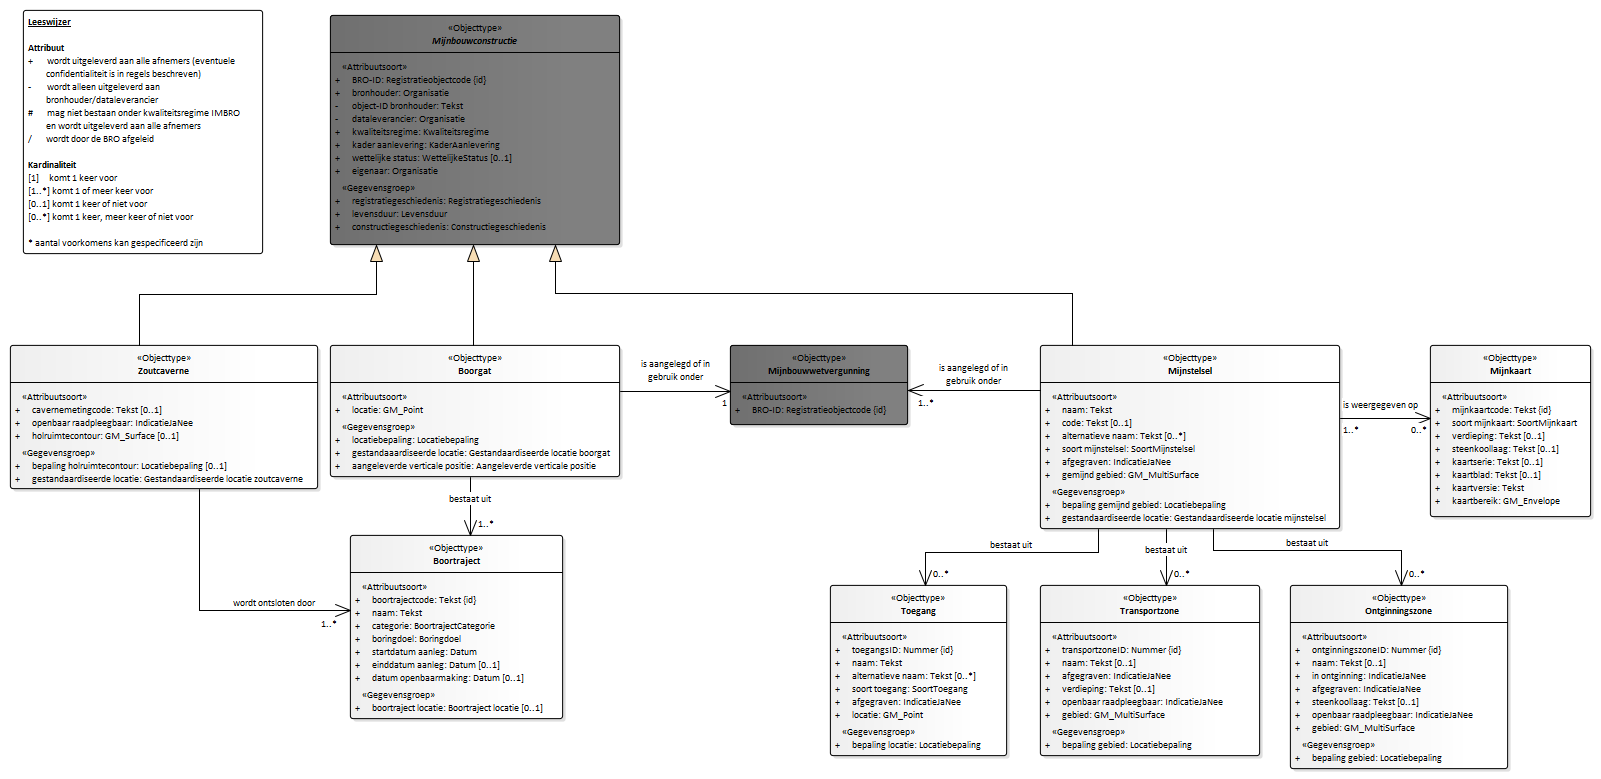
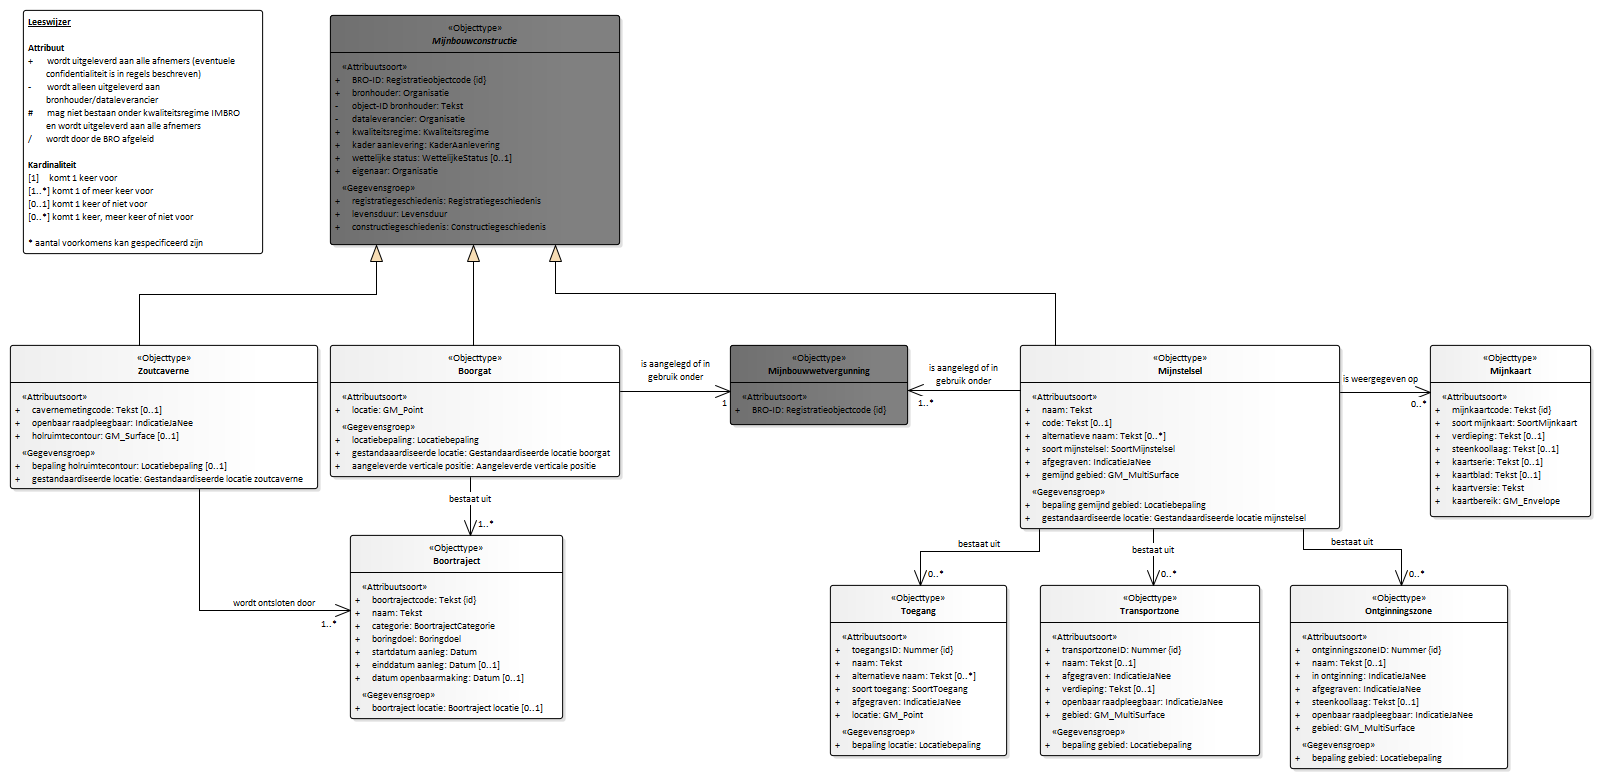
Conceptualmodel-MijnbouwconstructiesEPC-conceptueel-0.1versie27juli2020-1-20210315-20210519-143508

diff --git a/data/EPC-cat.msword.html b/data/EPC-cat.msword.html
@@ -15,7 +15,7 @@
    <body>
       <p>Conceptual model/Mijnbouwconstructies (EPC) - conceptueel/20210315</p>
       <p>Imvertor: 1.64.1</p>
-      <p>Model release: Conceptualmodel-MijnbouwconstructiesEPC-conceptueel-0.1versie27juli2020-1-20210315-20210519-073439</p>
+      <p>Model release: Conceptualmodel-MijnbouwconstructiesEPC-conceptueel-0.1versie27juli2020-1-20210315-20210519-143508</p>
       <hr>
       <section>
          <h1>Artikel 1 Definitie van registratieobject, entiteiten en attributen</h1>
@@ -62,7 +62,7 @@
          <section>
             <h2>Het domeinmodel</h2>
             <section id="">
-               <div class="imageinfo overview"><img src="Images/EAID_017CB205_53B6_4659_8664_F773CFA9FA2C.png" usemap="#imagemap-EAID_017CB205_53B6_4659_8664_F773CFA9FA2C" alt="Diagram "><map name="imagemap-EAID_017CB205_53B6_4659_8664_F773CFA9FA2C"><area shape="rect" alt="Mijnbouwwetvergunning" coords="730,345,908,425" href="#graph_EAID_27B442E5_A032_4487_8D18_F4E249D79776"><area shape="rect" alt="Zoutcaverne" coords="10,345,318,489" href="#graph_EAID_B71159A1_F213_4de2_AED5_550473F15950"><area shape="rect" alt="Mijnkaart" coords="1430,345,1591,517" href="#graph_EAID_1A8DB415_AEF6_4f69_8E8C_0187A61B4D1B"><area shape="rect" alt="Ontginningszone" coords="1290,585,1508,769" href="#graph_EAID_B1D55B65_6D27_4eb4_86EC_32DE6BA11322"><area shape="rect" alt="Transportzone" coords="1040,585,1260,756" href="#graph_EAID_828E18BC_B644_41e8_BF25_CBDE10E9249E"><area shape="rect" alt="Toegang" coords="830,585,1007,756" href="#graph_EAID_35D7E222_DC56_4b0e_B219_FCFEF3AE6D86"><area shape="rect" alt="Mijnstelsel" coords="1040,345,1340,529" href="#graph_EAID_CACC8EE7_6654_4fe8_8333_101AC6BA294D"><area shape="rect" alt="Boorgat" coords="330,345,620,477" href="#graph_EAID_78FEC25A_E260_4420_9D1D_66F309EA2C60"><area shape="rect" alt="Boortraject" coords="350,535,563,719" href="#graph_EAID_4E52826A_2252_4994_8AD0_986AD45E18C9"><area shape="rect" alt="Mijnbouwconstructie" coords="330,15,620,245" href="#graph_EAID_69DE8D60_7E06_4b57_94CD_8338348EDAE5"></map><p><b>Mijnbouwconstructies (EPC) -  overzicht</b></p>
+               <div class="imageinfo overview"><img src="Images/EAID_017CB205_53B6_4659_8664_F773CFA9FA2C.png" usemap="#imagemap-EAID_017CB205_53B6_4659_8664_F773CFA9FA2C" alt="Diagram "><map name="imagemap-EAID_017CB205_53B6_4659_8664_F773CFA9FA2C"><area shape="rect" alt="Mijnbouwwetvergunning" coords="730,345,908,425" href="#graph_EAID_27B442E5_A032_4487_8D18_F4E249D79776"><area shape="rect" alt="Zoutcaverne" coords="10,345,318,489" href="#graph_EAID_B71159A1_F213_4de2_AED5_550473F15950"><area shape="rect" alt="Mijnkaart" coords="1430,345,1591,517" href="#graph_EAID_1A8DB415_AEF6_4f69_8E8C_0187A61B4D1B"><area shape="rect" alt="Ontginningszone" coords="1290,585,1508,769" href="#graph_EAID_B1D55B65_6D27_4eb4_86EC_32DE6BA11322"><area shape="rect" alt="Transportzone" coords="1040,585,1260,756" href="#graph_EAID_828E18BC_B644_41e8_BF25_CBDE10E9249E"><area shape="rect" alt="Toegang" coords="830,585,1007,756" href="#graph_EAID_35D7E222_DC56_4b0e_B219_FCFEF3AE6D86"><area shape="rect" alt="Mijnstelsel" coords="1020,345,1340,529" href="#graph_EAID_CACC8EE7_6654_4fe8_8333_101AC6BA294D"><area shape="rect" alt="Boorgat" coords="330,345,620,477" href="#graph_EAID_78FEC25A_E260_4420_9D1D_66F309EA2C60"><area shape="rect" alt="Boortraject" coords="350,535,563,719" href="#graph_EAID_4E52826A_2252_4994_8AD0_986AD45E18C9"><area shape="rect" alt="Mijnbouwconstructie" coords="330,15,620,245" href="#graph_EAID_69DE8D60_7E06_4b57_94CD_8338348EDAE5"></map><p><b>Mijnbouwconstructies (EPC) -  overzicht</b></p>
                </div>
             </section>
          </section>
@@ -6853,13 +6853,12 @@
                         </td>
                   </tr>
                   <tr>
-                     <td>bestaanMijnstelselVastgesteld</td>
+                     <td>aanlegMijnstelselGestart</td>
                      <td>✔</td>
                      <td>✔</td>
                      <td>
                         
-                        <p>Het bestaan van een mijnstelsel is vastgesteld. Dit betreft het ontdekken van een
-                           reeds bestaand mijnstelsel, of, bij uitzondering, de aanleg van een nieuw mijnstelsel.</p>
+                        <p>Een nieuw mijnstelsel wordt aangelegd.</p>
                         </td>
                   </tr>
                   <tr>

diff --git a/data/EPC-cat.respec.html b/data/EPC-cat.respec.html
@@ -40,7 +40,7 @@
       </section>
    <section id="">
       <h2>Het domeinmodel   </h2>
-      <div class="imageinfo overview"><img src="data/Images/EAID_017CB205_53B6_4659_8664_F773CFA9FA2C.png" usemap="#imagemap-EAID_017CB205_53B6_4659_8664_F773CFA9FA2C" alt="Diagram "><map name="imagemap-EAID_017CB205_53B6_4659_8664_F773CFA9FA2C"><area shape="rect" alt="Mijnbouwwetvergunning" coords="730,345,908,425" href="#graph_EAID_27B442E5_A032_4487_8D18_F4E249D79776"><area shape="rect" alt="Zoutcaverne" coords="10,345,318,489" href="#graph_EAID_B71159A1_F213_4de2_AED5_550473F15950"><area shape="rect" alt="Mijnkaart" coords="1430,345,1591,517" href="#graph_EAID_1A8DB415_AEF6_4f69_8E8C_0187A61B4D1B"><area shape="rect" alt="Ontginningszone" coords="1290,585,1508,769" href="#graph_EAID_B1D55B65_6D27_4eb4_86EC_32DE6BA11322"><area shape="rect" alt="Transportzone" coords="1040,585,1260,756" href="#graph_EAID_828E18BC_B644_41e8_BF25_CBDE10E9249E"><area shape="rect" alt="Toegang" coords="830,585,1007,756" href="#graph_EAID_35D7E222_DC56_4b0e_B219_FCFEF3AE6D86"><area shape="rect" alt="Mijnstelsel" coords="1040,345,1340,529" href="#graph_EAID_CACC8EE7_6654_4fe8_8333_101AC6BA294D"><area shape="rect" alt="Boorgat" coords="330,345,620,477" href="#graph_EAID_78FEC25A_E260_4420_9D1D_66F309EA2C60"><area shape="rect" alt="Boortraject" coords="350,535,563,719" href="#graph_EAID_4E52826A_2252_4994_8AD0_986AD45E18C9"><area shape="rect" alt="Mijnbouwconstructie" coords="330,15,620,245" href="#graph_EAID_69DE8D60_7E06_4b57_94CD_8338348EDAE5"></map><p><b>Mijnbouwconstructies (EPC) -  overzicht</b></p>
+      <div class="imageinfo overview"><img src="data/Images/EAID_017CB205_53B6_4659_8664_F773CFA9FA2C.png" usemap="#imagemap-EAID_017CB205_53B6_4659_8664_F773CFA9FA2C" alt="Diagram "><map name="imagemap-EAID_017CB205_53B6_4659_8664_F773CFA9FA2C"><area shape="rect" alt="Mijnbouwwetvergunning" coords="730,345,908,425" href="#graph_EAID_27B442E5_A032_4487_8D18_F4E249D79776"><area shape="rect" alt="Zoutcaverne" coords="10,345,318,489" href="#graph_EAID_B71159A1_F213_4de2_AED5_550473F15950"><area shape="rect" alt="Mijnkaart" coords="1430,345,1591,517" href="#graph_EAID_1A8DB415_AEF6_4f69_8E8C_0187A61B4D1B"><area shape="rect" alt="Ontginningszone" coords="1290,585,1508,769" href="#graph_EAID_B1D55B65_6D27_4eb4_86EC_32DE6BA11322"><area shape="rect" alt="Transportzone" coords="1040,585,1260,756" href="#graph_EAID_828E18BC_B644_41e8_BF25_CBDE10E9249E"><area shape="rect" alt="Toegang" coords="830,585,1007,756" href="#graph_EAID_35D7E222_DC56_4b0e_B219_FCFEF3AE6D86"><area shape="rect" alt="Mijnstelsel" coords="1020,345,1340,529" href="#graph_EAID_CACC8EE7_6654_4fe8_8333_101AC6BA294D"><area shape="rect" alt="Boorgat" coords="330,345,620,477" href="#graph_EAID_78FEC25A_E260_4420_9D1D_66F309EA2C60"><area shape="rect" alt="Boortraject" coords="350,535,563,719" href="#graph_EAID_4E52826A_2252_4994_8AD0_986AD45E18C9"><area shape="rect" alt="Mijnbouwconstructie" coords="330,15,620,245" href="#graph_EAID_69DE8D60_7E06_4b57_94CD_8338348EDAE5"></map><p><b>Mijnbouwconstructies (EPC) -  overzicht</b></p>
       </div>
    </section>
    <section id="">
@@ -6827,13 +6827,12 @@
                   </td>
             </tr>
             <tr>
-               <td>bestaanMijnstelselVastgesteld</td>
+               <td>aanlegMijnstelselGestart</td>
                <td>✔</td>
                <td>✔</td>
                <td>
                   
-                  <p>Het bestaan van een mijnstelsel is vastgesteld. Dit betreft het ontdekken van een
-                     reeds bestaand mijnstelsel, of, bij uitzondering, de aanleg van een nieuw mijnstelsel.</p>
+                  <p>Een nieuw mijnstelsel wordt aangelegd.</p>
                   </td>
             </tr>
             <tr>
